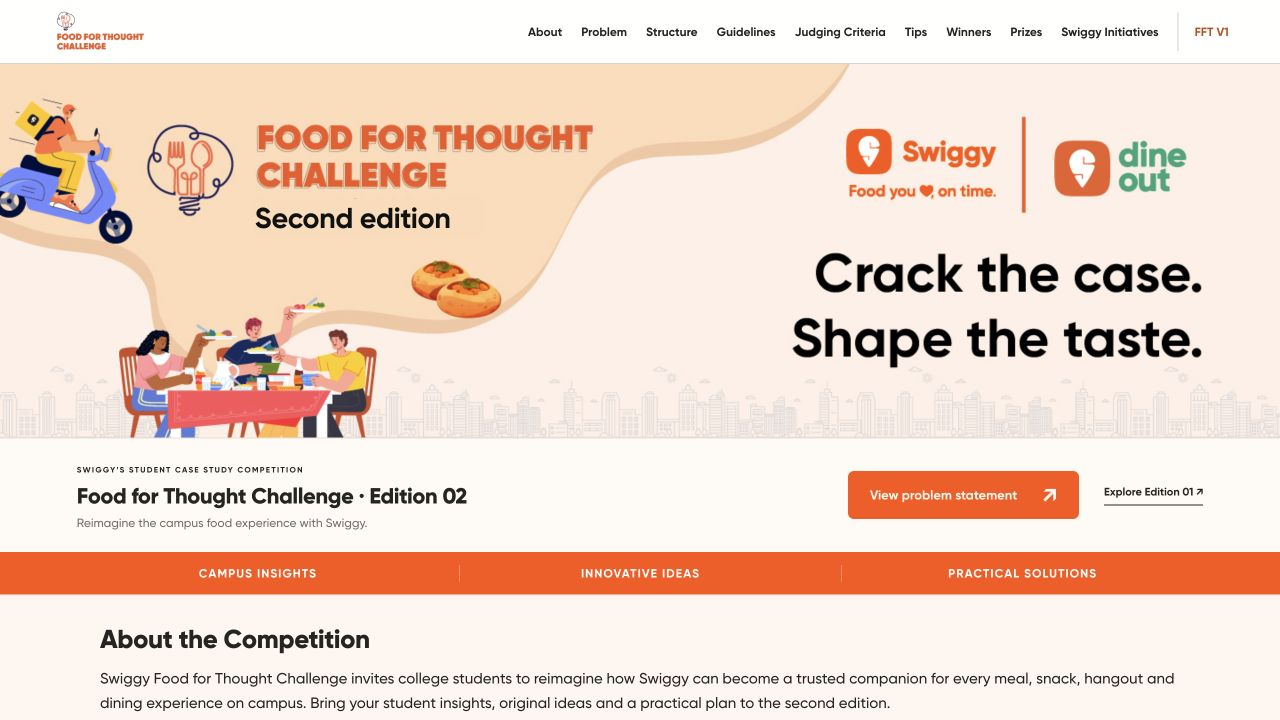
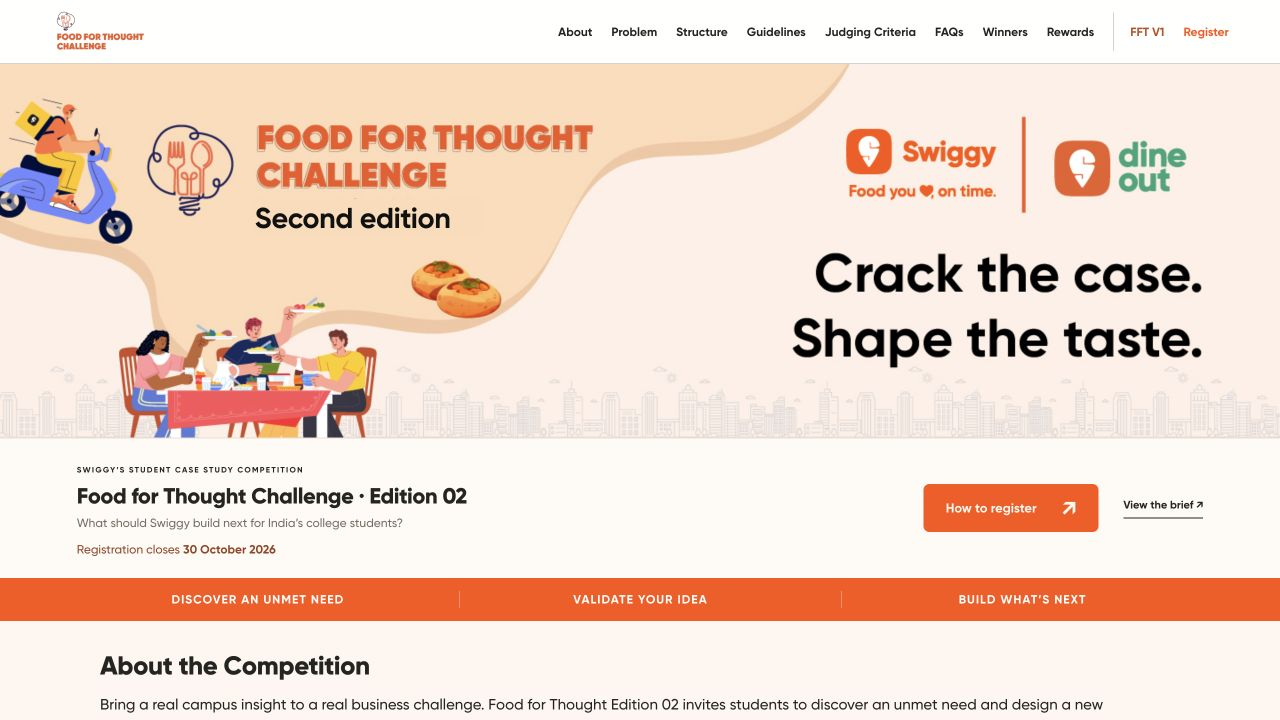
Incorporate FFT V2 brief and Student Rewards registration journey

Changed region(s): [[0.0, 0.6417, 1.0, 1.0], [0.4062, 0.0306, 0.9688, 0.0611]]

diff --git a/dist/index.html b/dist/index.html
@@ -4,7 +4,7 @@
   <meta charset="utf-8"><meta name="viewport" content="width=device-width,initial-scale=1">
   <meta name="theme-color" content="#ff5200">
   <title>Food for Thought Challenge — Edition 02 · Swiggy</title>
-  <meta name="description" content="Big ideas. Bigger appetites. Discover the next chapter of Swiggy’s student case study competition, and reimagine food on campus.">
+  <meta name="description" content="What should Swiggy build next for India’s college students? Explore Food for Thought Edition 02, the five-slide case challenge. Registration deadline: 30 October 2026.">
   <link rel="icon" href="assets/favicon.svg" type="image/svg+xml">
   <link rel="preload" href="assets/Gilroy-Black.otf" as="font" type="font/otf" crossorigin>
   <link rel="stylesheet" href="styles.css">
@@ -13,7 +13,7 @@
 <a class="skip-link" href="#main">Skip to content</a>
 <header class="site-header feedback-header">
 <a class="brand" href="#top" aria-label="Food for Thought Challenge home"><img src="assets/challenge-logo.png" alt="Food for Thought Challenge"></a>
-<nav aria-label="Main navigation" id="navigation"><a href="#about">About</a><a href="#problem">Problem</a><a href="#journey">Structure</a><a href="#guidelines">Guidelines</a><a href="#judging">Judging Criteria</a><a href="#tips">Tips</a><a href="#winners">Winners</a><a href="#prizes">Prizes</a><a href="#initiatives">Swiggy Initiatives</a><a class="view-v1-link fft-v1-nav" href="#fftc-v1" aria-controls="v1-panel">FFT V1</a></nav>
+<nav aria-label="Main navigation" id="navigation"><a href="#about">About</a><a href="#problem">Problem</a><a href="#journey">Structure</a><a href="#guidelines">Guidelines</a><a href="#judging">Judging Criteria</a><a href="#faqs">FAQs</a><a href="#winners">Winners</a><a href="#prizes">Rewards</a><a class="view-v1-link fft-v1-nav" href="#fftc-v1" aria-controls="v1-panel">FFT V1</a><a class="register-nav" href="#register">Register</a></nav>
 <button class="menu-toggle" aria-label="Open menu" aria-expanded="false" aria-controls="navigation"><span></span><span></span></button>
 </header>
 <main id="main"><div id="current-panel">
@@ -22,23 +22,26 @@
 <div class="heritage-banner"><img class="heritage-image" src="assets/original-banner.jpg" alt="Swiggy Food for Thought Challenge: a campus food scene with the line Crack the case. Shape the taste." fetchpriority="high">
 <div class="banner-edition">Second edition</div>
 </div>
-<div class="hero-caption"><div><span class="eyebrow">SWIGGY’S STUDENT CASE STUDY COMPETITION</span><h2>Food for Thought Challenge · Edition 02</h2><p>Reimagine the campus food experience with Swiggy.</p></div><div class="caption-actions"><a class="button dark" href="#problem">View problem statement <span aria-hidden="true">↗</span></a><a class="text-link view-v1-link" href="#fftc-v1">Explore Edition 01 ↗</a></div></div>
+<div class="hero-caption"><div><span class="eyebrow">SWIGGY’S STUDENT CASE STUDY COMPETITION</span><h2>Food for Thought Challenge · Edition 02</h2><p>What should Swiggy build next for India’s college students?</p><p class="hero-deadline">Registration closes <strong><time datetime="2026-10-30">30 October 2026</time></strong></p></div><div class="caption-actions"><a class="button dark" href="#register">How to register <span aria-hidden="true">↗</span></a><a class="text-link" href="#problem">View the brief ↗</a></div></div>
 </section>
-<div class="message-strip" aria-label="Competition focus"><span>CAMPUS INSIGHTS</span><span>INNOVATIVE IDEAS</span><span>PRACTICAL SOLUTIONS</span></div>
+<div class="message-strip" aria-label="Competition focus"><span>DISCOVER AN UNMET NEED</span><span>VALIDATE YOUR IDEA</span><span>BUILD WHAT’S NEXT</span></div>
 <section id="about" class="section competition-intro"><div class="intro-wrap">
-<h2>About the Competition</h2><p>Swiggy Food for Thought Challenge invites college students to reimagine how Swiggy can become a trusted companion for every meal, snack, hangout and dining experience on campus. Bring your student insights, original ideas and a practical plan to the second edition.</p>
-<div id="problem"><h3>Problem Statement</h3><p>From late-night study sessions to hostel get-togethers and weekend dine-outs, food brings campus life together. <strong>How can Swiggy become the go-to food companion on campus, across both delivery and dining out?</strong></p><p>Your case should address two outcomes:</p><ul><li><strong>Driving preference:</strong> Make Swiggy students’ first choice through affordability, accessibility, variety, trust and campus relevance.</li><li><strong>Building stickiness:</strong> Create repeat engagement through loyalty, community, gamification, personalisation and student-first innovations.</li></ul></div>
+<h2>About the Competition</h2><p>Bring a real campus insight to a real business challenge. Food for Thought Edition 02 invites students to discover an unmet need and design a new proposition that Swiggy is uniquely positioned to deliver. Build a portfolio-worthy case, gain exposure to Swiggy’s teams and leadership, and compete for cash rewards and a pre-placement interview opportunity.</p>
+<div id="problem"><h3>What should Swiggy build next for India’s college students?</h3><p>College life is evolving, yet many everyday student problems and occasions remain underserved. Identify a meaningful unmet need in the student journey, validate it on campus, and propose a solution that creates value for students and a clear, sustainable opportunity for Swiggy.</p><p>Think beyond how students use Swiggy today: a new product, service, feature, programme, partnership, experience or business model. AI-powered solutions are welcome, but AI is not required.</p><div class="v2-focus"><strong>From choosing Swiggy more → to building what comes next.</strong><span>Discover the need. Validate the opportunity. Design the solution. Show why Swiggy should solve it.</span></div></div>
 </div></section>
 <section id="journey" class="section compact-entry">
-<div class="section-marker">02 / HOW TO ENTER</div><div class="section-heading"><h2>Small team.<br><span class="orange-text">Big journey.</span></h2><p>All colleges. All batches.<br>Edition 02 dates coming soon.</p></div>
-<div class="entry-facts"><div><strong>2–4</strong><span>participants per team</span></div><div><strong>5 pages</strong><span>maximum · PDF under 20 MB</span></div><div><strong>Both</strong><span>food delivery + dining out</span></div></div>
-<div class="compact-timeline"><article><span class="step">01</span><h3>Register</h3><p>Form your team.</p></article><article><span class="step">02</span><h3>Submit your case</h3><p>Bring insights + ideas.</p></article><article><span class="step">03</span><h3>Presentation I</h3><p>Pitch to the panel.</p></article><article><span class="step">04</span><h3>CEO round</h3><p>Present to leadership.</p></article></div>
+<div class="section-marker">02 / HOW TO ENTER</div><div class="section-heading"><h2>Campus insight.<br><span class="orange-text">Real possibility.</span></h2><p>All batches. All disciplines.<br>Students at eligible colleges in India.</p></div>
+<div class="entry-facts"><div><strong>2–4</strong><span>members · same college</span></div><div><strong>5 slides</strong><span>maximum · presentation</span></div><div><strong>30 Oct</strong><span>2026 · registration deadline</span></div></div>
+<div class="compact-timeline"><article><span class="step">01</span><h3>Register your team</h3><p>Register for Student Rewards. Competition registration closes 30 October 2026.</p></article><article><span class="step">02</span><h3>Submit your case</h3><p>Up to five slides through the competition platform. Deadline to be announced.</p></article><article><span class="step">03</span><h3>Screening &amp; shortlist</h3><p>AI-assisted screening of valid submissions. Top 50 progress towards the finale shortlist.</p></article><article><span class="step">04</span><h3>National finale</h3><p>6–7 teams present in person to Swiggy leadership. Date and location to be announced.</p></article></div>
 <div class="entry-details">
-<details id="guidelines"><summary>What to include in your submission <span aria-hidden="true">+</span></summary><div class="detail-body"><ol><li><strong>Campus insights:</strong> Map student numbers, cuisines, ordering hours, delivery restrictions, food habits and campus events.</li><li><strong>Growth opportunities:</strong> Identify unmet needs for ordering in and dining out.</li><li><strong>Your solutions:</strong> Show how your ideas build preference and loyalty, why they work, launch steps and expected impact.</li></ol><p>File name: <code>TeamName_CollegeName.pdf</code>. Maximum 5 pages; PDF under 20 MB.</p><a class="text-link" href="assets/case-checklist.txt" download>Download the preparation checklist ↓</a></div></details>
-<details id="judging"><summary>How your case will be judged <span aria-hidden="true">+</span></summary><div class="detail-body"><div class="compact-criteria"><article><h3>Innovativeness <span>25%</span></h3><p>Original campus ideas, backed by student insights or relevant examples.</p></article><article><h3>Impact on growth <span>25%</span></h3><p>Simple estimates of installs, orders, dine-outs and engagement.</p></article><article><h3>Execution feasibility <span>25%</span></h3><p>A practical launch plan with features, partners, operations and timing.</p></article><article><h3>Cost effectiveness <span>25%</span></h3><p>Clear cost estimates and strong impact per rupee spent.</p></article></div></div></details>
-<details id="tips"><summary>Tips for a stronger case <span aria-hidden="true">+</span></summary><div class="detail-body"><ul><li><strong>Talk to students:</strong> Include real responses from friends, hostel mates and classmates.</li><li><strong>Use numbers:</strong> Size the campus and nearby dining opportunities.</li><li><strong>Be specific:</strong> An illustrative ₹49 midnight combo for an 800-student hostel is more concrete than “student offers.”</li><li><strong>Balance big + practical:</strong> Pair an ambitious idea with believable first steps.</li></ul></div></details>
-<details id="initiatives"><summary>Explore Swiggy’s current student initiatives <span aria-hidden="true">+</span></summary><div class="detail-body initiative-links"><a href="https://swiggy.onelink.me/888564224/u631l8dw" target="_blank" rel="noopener"><strong>Student Rewards ↗</strong><span>Discounts on Swiggy One, delivery, Dineout and more.</span></a><a href="https://swiggy.onelink.me/888564224/h6btndnt" target="_blank" rel="noopener"><strong>Campus Streaks ↗</strong><span>Reach your college’s streak target and unlock cashback.</span></a><a href="https://swiggy.onelink.me/888564224/cpoapzyk" target="_blank" rel="noopener"><strong>Campus Crazy Deals ↗</strong><span>Dishes from ₹49, exclusively for your college.</span></a></div></details>
-</div><p class="entry-note">Structure, rules and student initiatives shown follow Edition 01. Final Edition 02 details will be confirmed at launch.</p>
+<details id="eligibility"><summary>Eligibility and team rules <span aria-hidden="true">+</span></summary><div class="detail-body"><ul><li>Open to students across eligible colleges in India, from all batches and academic disciplines.</li><li>Every participant must register for <a href="#register">Swiggy Student Rewards</a>.</li><li>Form a team of 2–4 members, all from the same college. A student may join only one team.</li><li>There is no limit on the number of teams from a college.</li><li>Team members cannot change after registration closes.</li><li>Only submissions in the prescribed format and received within the deadline will be considered.</li></ul></div></details>
+<details id="guidelines"><summary>Your submission: up to five slides <span aria-hidden="true">+</span></summary><div class="detail-body"><ol class="slide-outline"><li><strong>Campus insight:</strong> Identify a student behaviour, unmet need, operational challenge or business opportunity, supported by campus-level validation.</li><li><strong>Proposed solution:</strong> Explain your product, AI-powered solution, tool, automation, marketing intervention, partnership, operational improvement or community-led initiative.</li><li><strong>User journey &amp; experience:</strong> Show how it works and how relevant students, restaurant partners, delivery partners or internal teams interact with and benefit from it.</li><li><strong>Business impact:</strong> Estimate relevant outcomes—adoption, transactions, frequency, retention, revenue, cost savings, operational efficiency, productivity or customer experience.</li><li><strong>Execution plan:</strong> Explain the pilot and scale-up plan, implementation approach, estimated costs, dependencies, risks and measurable success metrics. For AI-led ideas, explain the role of AI and include a prototype or mock-up wherever feasible.</li></ol><p><strong>Submit a presentation of no more than five slides through the competition platform.</strong> Submission deadline and platform instructions will be announced.</p><a class="text-link" href="assets/case-checklist.txt" download>Download the FFT V2 preparation checklist ↓</a></div></details>
+<details id="research"><summary>Required: validate your idea on campus <span aria-hidden="true">+</span></summary><div class="detail-body"><p>Include at least one form of campus-level validation: a student survey, student interviews, merchant interviews, campus observations, a small experiment, or a prototype/concept test.</p><p>Show what you learned and how it shaped your solution. Make your evidence specific to the need you identified.</p></div></details>
+<details id="judging"><summary>Screening and finale judging <span aria-hidden="true">+</span></summary><div class="detail-body"><p>AI-assisted screening will check eligibility and completeness, score valid cases against predefined parameters, and identify similar or repetitive submissions. The top 50 submissions progress towards selection of 6–7 national finalists.</p><p>The finale jury will assess:</p><ul><li><strong>Quality of insight:</strong> How well you understand the need and support it with evidence.</li><li><strong>Originality:</strong> The distinctiveness of your proposed solution.</li><li><strong>Business potential:</strong> A clear, sustainable opportunity for Swiggy and its ecosystem.</li><li><strong>Execution feasibility:</strong> A believable path from pilot to scale.</li><li><strong>Presentation and responses:</strong> How clearly you communicate and respond to jury questions.</li></ul></div></details>
+<details id="tips"><summary>Tips for a stronger case <span aria-hidden="true">+</span></summary><div class="detail-body"><ul><li><strong>Start with the need:</strong> Talk to students and observe real campus behaviour before choosing a solution.</li><li><strong>Show why Swiggy:</strong> Explain how its capabilities make it well placed to solve this problem.</li><li><strong>Make assumptions visible:</strong> Support impact and cost estimates with evidence and explain your calculations.</li><li><strong>Make the pilot practical:</strong> Name the first users, key dependencies, risks and success measures.</li><li><strong>Use AI purposefully:</strong> If your idea uses AI, explain what it does and show a prototype or mock-up wherever feasible.</li></ul></div></details>
+<details id="initiatives"><summary>Know Swiggy: Food, Dineout, Instamart &amp; Student Rewards <span aria-hidden="true">+</span></summary><div class="detail-body"><div class="initiative-links"><article><strong>Swiggy Food</strong><p>Food delivery for everyday meals and different campus occasions.</p></article><article><strong>Swiggy Dineout</strong><p>Dining-out experiences for student plans beyond campus.</p></article><article><strong>Swiggy Instamart</strong><p>Quick commerce for groceries and everyday essentials.</p></article></div><p>Your idea can go beyond existing offerings. Use these businesses as context for what Swiggy could build next.</p><a class="text-link" href="https://swiggy.onelink.me/888564224/u631l8dw" target="_blank" rel="noopener">Explore &amp; register for Student Rewards ↗</a></div></details>
+<details id="faqs"><summary>Frequently asked questions <span aria-hidden="true">+</span></summary><div class="detail-body faq-body"><h3>Can students from different colleges form a team?</h3><p>No. All 2–4 members must belong to the same college, and each student can participate in only one team.</p><h3>Does every team member need Student Rewards?</h3><p>Yes. Every participant must register for Swiggy Student Rewards. This is a prerequisite; it is separate from registering your team for the competition.</p><h3>Does the solution have to use AI?</h3><p>No. AI-led ideas are welcome alongside products, services, partnerships, experiences and other solutions. If AI is used, explain its role and demonstrate a prototype or mock-up wherever feasible.</p><h3>Is primary research mandatory?</h3><p>Yes. Include at least one form of campus-level validation, such as interviews, a survey, observations, an experiment or a concept test.</p><h3>When do registrations and submissions close?</h3><p>Competition registration closes on <time datetime="2026-10-30">30 October 2026</time>. The submission deadline and national finale date and location will be announced.</p><h3>Where do we register our team?</h3><p>The official competition registration link will be added here once available. You can register for Student Rewards using the link below in the meantime; that does not register your team for FFT V2.</p></div></details>
+</div>
 </section>
 <section id="winners" class="section compact-winners">
 <div class="section-marker">03 / LAST YEAR’S FOOD FOR THOUGHT</div><div class="section-heading"><h2>Meet the <span class="orange-text">class of ’25.</span></h2><a class="text-link view-v1-link" href="#fftc-v1">Explore FFT V1 ↗</a></div>
@@ -48,16 +51,16 @@
 
 
 <section id="prizes" class="section prizes compact-prizes">
-  <div class="section-marker">04 / THE REWARDS</div><div class="section-heading"><h2>Good ideas.<br><span>Great rewards.</span></h2><div><span class="pill light">EDITION 01 REWARD LINE-UP</span><p>The previous edition offered up to ₹12 lakh in prizes.<br>Edition 02 rewards will be confirmed at launch.</p></div></div>
-  <div class="reward-grid"><article class="winner-reward"><span class="reward-rank">THE NATIONAL WINNER</span><svg class="trophy" viewBox="0 0 100 100" aria-hidden="true"><g fill="none" stroke="currentColor" stroke-width="4"><path d="M25 13h50v24q0 27-25 27T25 37zM25 20H9v13q0 21 23 21M75 20h16v13q0 21-23 21M50 64v20M31 86h38M24 94h52"/></g></svg><strong>₹1,50,000</strong><p>Cash prize +<br><b>pre-placement interviews</b></p><span class="reward-sticker">BIG IDEA.<br>BIG BREAK.</span></article><article><span class="reward-rank">FIRST RUNNER-UP</span><span class="reward-symbol" aria-hidden="true">✦</span><strong>₹50,000</strong><p>Cash prize for the<br>next big campus idea.</p></article><article><span class="reward-rank">TOP 50 TEAMS</span><span class="reward-symbol" aria-hidden="true">↗</span><strong>₹1,00,000</strong><p>DineCash worth ₹1 lakh,<br>as listed in Edition 01.</p></article><article><span class="reward-rank">REGISTERED PARTICIPANTS</span><span class="reward-symbol" aria-hidden="true">☺</span><strong>₹200</strong><p>DineCash per team member.<br>A little treat to get started.</p></article></div>
-</section><section class="compact-cta" id="edition-two"><div><span class="eyebrow">EDITION 02 / COMING SOON</span><h2>Your team could be next.</h2><p>Find your crew. Start with your campus.</p></div><button class="button dark launch-button">Registration updates <span aria-hidden="true">↗</span></button></section>
+<div class="section-marker">04 / THE REWARDS</div><div class="section-heading"><h2>Good ideas.<br><span>Great rewards.</span></h2><div><span class="pill light">EDITION 02</span><p>Build a portfolio-worthy case.<br>Cash prize amounts and detailed terms will be announced.</p></div></div>
+<div class="reward-grid v2-rewards"><article class="winner-reward"><span class="reward-rank">COMPETE FOR</span><span class="reward-symbol" aria-hidden="true">✦</span><strong>Cash rewards</strong><p>Bring your campus insight to life.<br>Prize details to be announced.</p></article><article><span class="reward-rank">CAREER OPPORTUNITY</span><span class="reward-symbol" aria-hidden="true">↗</span><strong>Pre-placement interview</strong><p>An opportunity with Swiggy.<br>Detailed terms to be announced.</p></article><article><span class="reward-rank">LEARN FROM THE BUSINESS</span><span class="reward-symbol" aria-hidden="true">◎</span><strong>Leadership exposure</strong><p>Gain exposure to Swiggy’s business teams and leadership.</p></article></div>
+</section>
+<section class="section registration-section" id="register"><div class="registration-heading"><span class="eyebrow">EDITION 02 / REGISTRATION</span><h2>Get your team ready.</h2><p>Competition registration deadline: <strong><time datetime="2026-10-30">30 October 2026</time></strong></p></div><div class="registration-steps"><article><span class="step">01</span><div><h3>Every member: Student Rewards</h3><p>All participants must register for Swiggy Student Rewards. Complete this prerequisite using the official link.</p><a class="button orange" href="https://swiggy.onelink.me/888564224/u631l8dw" target="_blank" rel="noopener">Register for Student Rewards <span aria-hidden="true">↗</span></a></div></article><article><span class="step">02</span><div><h3>Register your competition team</h3><p>Form your team of 2–4 students from the same college. The official FFT V2 team registration link will be added here once available.</p><button class="button registration-pending" disabled>Competition link coming soon</button><small>Student Rewards registration does not register your team for the competition.</small></div></article></div></section>
 </div><div id="v1-panel" role="region" aria-label="Food for Thought first-edition recap" hidden><h1 class="visually-hidden">About FFT V1 — The First Edition</h1><section id="legacy" class="section legacy">
   <div class="section-marker">ABOUT FFT V1 / THE CLASS OF ’25</div><div class="section-heading"><h2>The first serving<br>was <span class="orange-text">something else.</span></h2><a class="text-link" href="https://blog.swiggy.com/news/food-for-thought-challenge-2025-swiggys-first-ever-student-case-study-competition/" target="_blank" rel="noopener">Read the full story ↗</a></div>
   <div class="legacy-stats"><div><strong>8,000<span>+</span></strong><span>STUDENTS WITH BIG IDEAS</span></div><div><strong>600<span>+</span></strong><span>COLLEGES AT THE TABLE</span></div><div><strong>2,600<span>+</span></strong><span>CASES THAT GOT US THINKING</span></div></div>
   <div class="photo-grid"><figure class="winner-photo"><div class="photo-wrap"><img src="assets/winners.jpeg" alt="IIM Lucknow’s winning team receiving their ₹1,50,000 prize with Swiggy leadership at the 2025 finale" loading="lazy"><span class="photo-sticker">THE OG<br>BIG THINKERS ✳</span></div><figcaption><div><span class="eyebrow">NATIONAL WINNER / 2025</span><h3>IIM Lucknow</h3></div><span class="photo-prize">₹1,50,000 + PPI ↗</span></figcaption></figure><figure class="runner-photo"><div class="photo-wrap"><img src="assets/runners-up.jpeg" alt="IIM Indore’s first runner-up team receiving their ₹50,000 prize at the 2025 finale" loading="lazy"></div><figcaption><div><span class="eyebrow">FIRST RUNNER-UP / 2025</span><h3>IIM Indore</h3></div><span class="photo-prize">₹50,000 ↗</span></figcaption></figure></div>
   <div class="legacy-bottom"><p>From 2,600+ submissions to eight semi-finalist teams and four finalists in Bengaluru. Campus thinking made it all the way to the boardroom.</p><span class="handnote">Your team could<br>write the next chapter.</span></div>
 </section><div class="v1-return"><a class="button dark" href="https://www.foodforthoughtchallenge.in/" target="_blank" rel="noopener">Visit the original website ↗</a><button class="button outline" data-view="current">Back to the competition →</button></div></div></main>
-<footer><div class="footer-main"><a class="brand" href="#top"><span class="swiggy-lockup"><img src="assets/swiggy-logo.png" alt="Swiggy"></span><span class="brand-line"></span><span>FOOD FOR<br>THOUGHT<span class="brand-sub">CHALLENGE</span></span></a><div><span class="eyebrow">NEED ASSISTANCE?</span><a class="contact" href="mailto:swiggyforstudents@swiggy.in?subject=Food%20for%20Thought%20Challenge">swiggyforstudents@swiggy.in ↗</a><small>Subject line: Food for Thought Challenge</small></div><a class="back-top" href="#top" aria-label="Back to top">↑</a></div><div class="footer-bottom"><span>FOOD FOR THOUGHT CHALLENGE · POWERED BY SWIGGY</span><span>EDITION 02 DESIGN PREVIEW</span></div></footer>
-<dialog id="launch-dialog" aria-labelledby="launch-title"><button class="dialog-close" aria-label="Close launch details">×</button><span class="pill">EDITION 02</span><h2 id="launch-title">The next serving<br>is on its way.</h2><p>Registration dates and the official entry link are coming soon. In the meantime, gather your team and explore the challenge.</p><a class="button dark dialog-explore" href="#guidelines">View submission guidelines ↗</a><p class="dialog-contact">For updates, contact <a href="mailto:swiggyforstudents@swiggy.in?subject=Food%20for%20Thought%20Challenge">Swiggy for Students ↗</a></p></dialog>
+<footer><div class="footer-main"><a class="brand" href="#top"><span class="swiggy-lockup"><img src="assets/swiggy-logo.png" alt="Swiggy"></span><span class="brand-line"></span><span>FOOD FOR<br>THOUGHT<span class="brand-sub">CHALLENGE</span></span></a><div><span class="eyebrow">NEED ASSISTANCE?</span><a class="contact" href="mailto:swiggyforstudents@swiggy.in?subject=Food%20for%20Thought%20Challenge">swiggyforstudents@swiggy.in ↗</a><small>Subject line: Food for Thought Challenge</small></div><a class="back-top" href="#top" aria-label="Back to top">↑</a></div><div class="footer-bottom"><span>FOOD FOR THOUGHT CHALLENGE · POWERED BY SWIGGY</span><span>EDITION 02 · FOOD FOR THOUGHT</span></div></footer>
 <script src="app.js" defer></script>
 </body></html>

diff --git a/dist/styles.css b/dist/styles.css
@@ -59,3 +59,9 @@ dialog{background:var(--cream);border:1px solid var(--ink);border-radius:12px;pa
 @media(max-width:1150px){.feedback-header{padding-inline:25px;gap:20px}.feedback-header nav{gap:13px}.feedback-header nav a{font-size:11px}.feedback-header .brand img{width:91px}.fft-v1-nav{padding-left:11px!important}}
 @media(max-width:900px){.feedback-header{height:64px;padding-inline:24px}.feedback-header .menu-toggle{margin-left:auto}.feedback-header .brand img{width:115px;height:47px}.feedback-header nav{top:64px;padding:18px 24px;gap:17px;background:white;border-bottom:1px solid var(--line);box-shadow:0 5px 10px #2424200b}.feedback-header nav.open{display:grid;grid-template-columns:1fr 1fr}.feedback-header nav a{font-size:13px}.fft-v1-nav{padding-left:0!important;border-left:0}.competition-intro ul{gap:20px}.competition-intro p,.competition-intro li{font-size:14px}.hero-caption h2{font-size:20px}}
 @media(max-width:640px){.feedback-header{height:60px;padding-inline:6vw}.feedback-header nav{top:60px}.banner-edition{font-size:2.35vw;padding-top:0;letter-spacing:-.1px}.hero-caption{padding:18px 6vw;gap:14px}.hero-caption h2{font-size:19px;line-height:1.25}.hero-caption .button{font-size:10px}.caption-actions{gap:17px}.message-strip{gap:10px;padding:11px 4vw}.message-strip span{font-size:8px;letter-spacing:.4px}.competition-intro{padding:25px 0}.competition-intro h2{font-size:23px}.competition-intro h3{font-size:19px;margin-top:19px}.competition-intro p,.competition-intro li{font-size:13px;line-height:1.6}.competition-intro ul{grid-template-columns:1fr;gap:10px}.intro-wrap{width:calc(100% - 12vw)}}
+
+/* Edition 02 brief: compact guidance and a clear two-step registration journey. */
+.register-nav{color:var(--orange)}.v2-focus{margin-top:17px;border-left:3px solid var(--orange);padding:10px 16px;background:#ffead9}.v2-focus strong,.v2-focus span{display:block;font-size:14px;line-height:1.5}.v2-focus span{margin-top:5px}.slide-outline li+li{margin-top:12px}.detail-body a:not(.button){text-decoration:underline;text-underline-offset:3px}.faq-body h3{font-size:16px;margin:20px 0 7px}.faq-body h3:first-child{margin-top:0}.v2-rewards{grid-template-columns:repeat(3,minmax(0,1fr))}.compact-prizes .v2-rewards strong{font-size:28px;line-height:1.1;letter-spacing:-.8px}.compact-prizes .v2-rewards article{min-height:230px}.registration-section{padding:35px 6vw;background:#fff0db;border-top:1px solid #e5d4bb}.registration-heading h2{font-size:35px;letter-spacing:-1px;margin:8px 0 11px}.registration-heading p{font-size:15px}.registration-steps{display:grid;grid-template-columns:1fr 1fr;gap:35px;margin-top:27px}.registration-steps article{display:flex;gap:14px}.registration-steps .step{background:var(--orange);color:white;border-radius:50%;width:30px;height:30px;flex-shrink:0;display:grid;place-items:center;font-size:12px;font-weight:700}.registration-steps h3{font-size:19px;letter-spacing:-.4px;margin:3px 0 8px}.registration-steps p{font-size:13px;line-height:1.6;margin-bottom:17px}.registration-steps .button{font-size:12px;padding:15px 18px;gap:17px}.registration-pending{background:#e8e0d4;color:#62594d;border-color:#cabda9;cursor:not-allowed}.registration-pending:hover{transform:none;box-shadow:none}.registration-steps small{display:block;font-size:11px;line-height:1.5;margin-top:12px;max-width:340px}.initiative-links article strong{font-size:16px}.initiative-links article p{margin-top:6px}.initiative-links+p{margin-block:20px}.compact-timeline p{line-height:1.6}
+@media(max-width:640px){.v2-focus strong,.v2-focus span{font-size:12px}.registration-section{padding:28px 6vw}.registration-heading h2{font-size:29px}.registration-heading p{font-size:13px}.registration-steps{grid-template-columns:1fr;gap:26px;margin-top:24px}.registration-steps h3{font-size:18px}.registration-steps p{font-size:12px}.registration-steps .button{font-size:11px}.v2-rewards{grid-template-columns:1fr}.compact-prizes .v2-rewards article{min-height:0;padding:20px;display:grid;grid-template-columns:40px 1fr;column-gap:14px}.v2-rewards .reward-rank{grid-column:1/-1}.compact-prizes .v2-rewards .reward-symbol{margin:15px 0 0;grid-row:2/4;font-size:32px}.compact-prizes .v2-rewards strong{font-size:24px;margin-top:13px;letter-spacing:-.5px}.compact-prizes .v2-rewards p{font-size:12px;margin-top:8px}.faq-body h3{font-size:15px}}
+
+.hero-caption .hero-deadline{margin-top:7px;color:#98421f;font-size:12px}

diff --git a/dist/app.js b/dist/app.js
@@ -12,8 +12,3 @@ document.querySelectorAll('.brand,.back-top').forEach(link=>link.addEventListene
 document.querySelectorAll('[data-view]').forEach(button=>button.addEventListener('click',()=>{showEdition(button.dataset.view,true);history.replaceState(null,'',button.dataset.view==='v1'?'#fftc-v1':'#top');}));
 window.addEventListener('hashchange',()=>{showEdition(location.hash==='#fftc-v1'?'v1':'current');revealLinkedGuidance();});
 showEdition(location.hash==='#fftc-v1'?'v1':'current');revealLinkedGuidance();
-const dialog=document.querySelector('#launch-dialog');
-document.querySelectorAll('.launch-button').forEach(button=>button.addEventListener('click',()=>dialog.showModal()));
-document.querySelector('.dialog-close').addEventListener('click',()=>dialog.close());
-document.querySelector('.dialog-explore').addEventListener('click',()=>{showEdition('current');document.querySelector('#guidelines').open=true;dialog.close();});
-dialog.addEventListener('click',event=>{const r=dialog.getBoundingClientRect();if(event.target===dialog&&(event.clientX<r.left||event.clientX>r.right||event.clientY<r.top||event.clientY>r.bottom))dialog.close();});

diff --git a/README.md b/README.md
@@ -1,10 +1,10 @@
 # Food for Thought Challenge — Edition 02
 
-A responsive website concept for Swiggy’s student case study competition, built to make the challenge easy to understand, explore and share for review.
+A responsive website for Swiggy’s student case study competition. FFT V2 asks: **What should Swiggy build next for India’s college students?**
 
 **[View the live website on Vercel →](https://food-for-thought-edition-02.vercel.app/)**
 
-**Status:** Design preview for stakeholder review. Edition 02 registration dates, the official registration link, final rules and rewards are awaiting confirmation.
+**Status:** Updated with the supplied FFT V2 brief. Competition registration closes **30 October 2026**. The official competition registration URL is pending; Student Rewards signup is available. Submission deadline, finale date/location and detailed prize terms remain to be announced.
 
 ![Food for Thought Challenge website preview](docs/website-preview.jpg)
 
@@ -14,13 +14,20 @@ The website refreshes the first edition’s familiar visual identity while keepi
 
 The main page includes:
 
-- **About and Problem Statement:** competition context and the two core outcomes—driving preference and building stickiness.
-- **How to enter:** team size, submission format and competition stages, with expandable submission guidance, judging criteria, tips and student initiatives.
-- **Meet the class of ’25:** the previous edition’s winners, official photographs and participation highlights.
-- **Good ideas. Great rewards:** the Edition 01 reward line-up, clearly labelled as a reference pending Edition 02 confirmation.
-- **FFT V1:** a separate first-edition recap accessible from the top navigation.
+- **About and problem statement:** discover an unmet student need, validate the opportunity, design a new solution and explain why Swiggy should solve it sustainably.
+- **How to enter:** 2–4 students from the same college, all batches and disciplines at eligible Indian colleges. Every member must register for Student Rewards; each student may join only one team.
+- **Five-slide submission guide:** campus insight, proposed solution, user journey, business impact and execution plan. Campus-level validation is mandatory. AI is optional; AI-led ideas should explain its role and show a prototype/mock-up wherever feasible.
+- **Selection and judging:** AI-assisted screening, top 50 progressing towards selection of 6–7 in-person national finalists, and qualitative finale criteria without invented weights.
+- **FAQs and business context:** Swiggy Food, Dineout, Instamart and Student Rewards.
+- **2025 winners and FFT V1:** retained first-edition photographs, results and separate recap; winners appear before Edition 02 rewards.
+- **Registration:** a two-step journey separating Student Rewards signup from competition team registration.
 
-The registration button currently opens an information dialog explaining that dates and the official entry link are coming soon. It does not collect registrations.
+### Registration behavior
+
+1. Every participant can use the [official Student Rewards link](https://swiggy.onelink.me/888564224/u631l8dw).
+2. Competition team registration closes **30 October 2026**. Its official URL is intentionally omitted until supplied; the pending button is disabled.
+
+Student Rewards signup does **not** register a team for the competition. The website does not collect student data or accept case uploads itself. Once supplied, replace the disabled button in `#register` with a link to the official competition platform and update its explanatory text and FAQ.
 
 ## Technology
 
@@ -70,13 +77,16 @@ The included `vercel.json` sets `dist` as the output directory for static hostin
 
 ## Review notes
 
-Desktop and mobile layouts have been checked, including mobile menu behavior, navigation to expandable guidance, FFT V1 switching and horizontal overflow. Winners appear before rewards on the main page.
+Checked desktop and 390px mobile layouts, including horizontal overflow, mobile menu closing after navigation, links opening guidance/FAQs, FFT V1 switching, the Student Rewards URL and the disabled competition registration button. JavaScript syntax, internal anchors and local assets were also checked.
 
-Before the Edition 02 launch, confirm and update:
+Before competition entry can open, add the official registration URL. The following details still need confirmation:
 
-- Registration dates and official entry link
-- Final eligibility, competition stages and submission requirements
-- Final prize amounts and reward terms
+- Submission deadline and platform-specific file/upload instructions
+- National finale date and location
+- Cash prize amounts and detailed reward terms
+- Any final eligible-college list and detailed screening parameters
+
+The internal marketing plan and tentative operational review details from the brief are not published as student-facing commitments.
 
 ## Content and visual references
 
